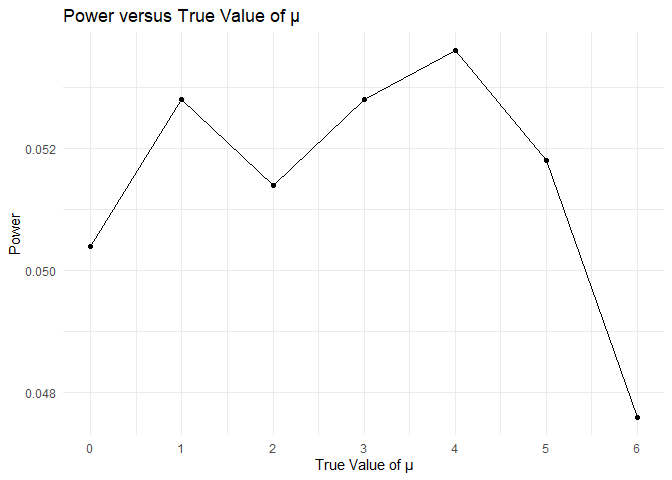
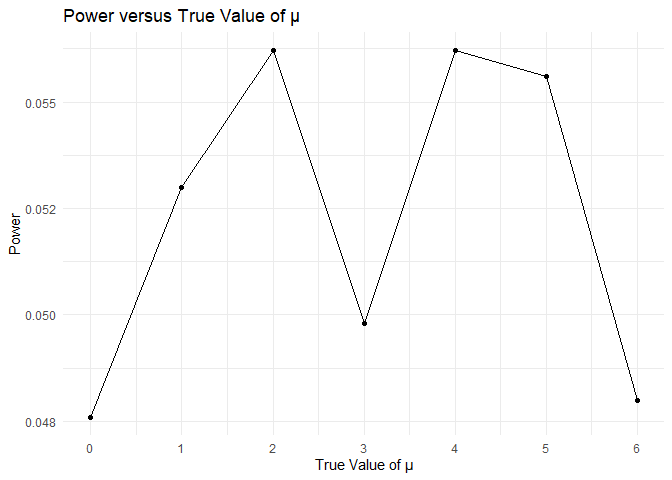
correcting null hypo

diff --git a/p8105_hw5_yl5508.md b/p8105_hw5_yl5508.md
@@ -190,7 +190,7 @@ significant upward trend, roughly increasing from 1 to 5.
 sample = function(ntest, mu) {
   res = list()
   for (i in 1:ntest) {
-    res[[i]] = rnorm(30, mu, 1)
+    res[[i]] = rnorm(30, mu, 5)
   }
   res
 }
@@ -221,16 +221,16 @@ mu_0_outcome
     ## # A tibble: 5,000 × 4
     ##       mu  iter estimate p_value
     ##    <dbl> <int>    <dbl>   <dbl>
-    ##  1     0     1  0.00646   0.974
-    ##  2     0     2  0.222     0.332
-    ##  3     0     3 -0.255     0.104
-    ##  4     0     4 -0.0854    0.643
-    ##  5     0     5 -0.0139    0.938
-    ##  6     0     6 -0.117     0.476
-    ##  7     0     7 -0.138     0.259
-    ##  8     0     8  0.136     0.373
-    ##  9     0     9 -0.222     0.214
-    ## 10     0    10 -0.178     0.295
+    ##  1     0     1   -1.32   0.233 
+    ##  2     0     2   -1.07   0.235 
+    ##  3     0     3   -1.08   0.329 
+    ##  4     0     4   -0.231  0.804 
+    ##  5     0     5   -0.739  0.424 
+    ##  6     0     6    0.200  0.823 
+    ##  7     0     7   -0.348  0.662 
+    ##  8     0     8    1.71   0.0200
+    ##  9     0     9   -0.833  0.375 
+    ## 10     0    10    0.256  0.824 
     ## # ℹ 4,990 more rows
 
 ``` r
@@ -255,16 +255,16 @@ mu_0to6
     ## # A tibble: 35,000 × 4
     ##       mu  iter estimate p_value
     ##    <dbl> <int>    <dbl>   <dbl>
-    ##  1     0     1  0.00646   0.974
-    ##  2     0     2  0.222     0.332
-    ##  3     0     3 -0.255     0.104
-    ##  4     0     4 -0.0854    0.643
-    ##  5     0     5 -0.0139    0.938
-    ##  6     0     6 -0.117     0.476
-    ##  7     0     7 -0.138     0.259
-    ##  8     0     8  0.136     0.373
-    ##  9     0     9 -0.222     0.214
-    ## 10     0    10 -0.178     0.295
+    ##  1     0     1   -1.32   0.233 
+    ##  2     0     2   -1.07   0.235 
+    ##  3     0     3   -1.08   0.329 
+    ##  4     0     4   -0.231  0.804 
+    ##  5     0     5   -0.739  0.424 
+    ##  6     0     6    0.200  0.823 
+    ##  7     0     7   -0.348  0.662 
+    ##  8     0     8    1.71   0.0200
+    ##  9     0     9   -0.833  0.375 
+    ## 10     0    10    0.256  0.824 
     ## # ℹ 34,990 more rows
 
 ``` r
@@ -284,10 +284,9 @@ power_plot
 
 ![](p8105_hw5_yl5508_files/figure-gfm/power_plot-1.png)<!-- -->
 
-From the graph, it’s evident that as the true mean (μ) increases, the
-power of the experiment also increases, following a sigmoid growth
-pattern. Additionally, once the true mean surpasses 4, the power
-essentially reaches 1.  
+The power exhibits an irregular zigzag pattern with no consistent
+correlation across various tests (where the null hypotheses range from
+the true mean being equal to 0 to 6).  
 
 ``` r
 est_plot =
@@ -330,9 +329,6 @@ est_rej_plot
 
 ![](p8105_hw5_yl5508_files/figure-gfm/estimate_reject_plot-1.png)<!-- -->
 
-Through a comprehensive analysis of multiple graphs, we’ve observed that
-when the power is low, there’s a significant disparity between the
-estimate under rejecting the null hypothesis and the true mean.
-Moreover, as the power decreases, this gap becomes more apparent.
-However, as the power approaches 1 (true mean exceeding 4), the values
-of both the estimate and the true mean essentially converge.  
+Overall, the estimates are quite close to the true mean, yet there are
+discrepancies at specific points due to the selection of samples that
+should have been rejected.  
